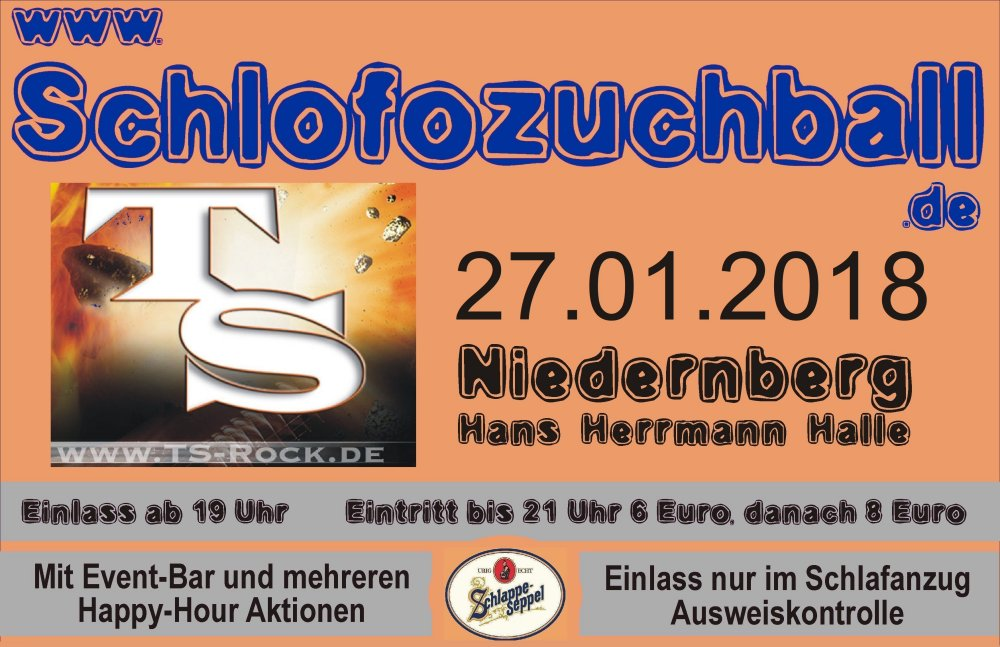
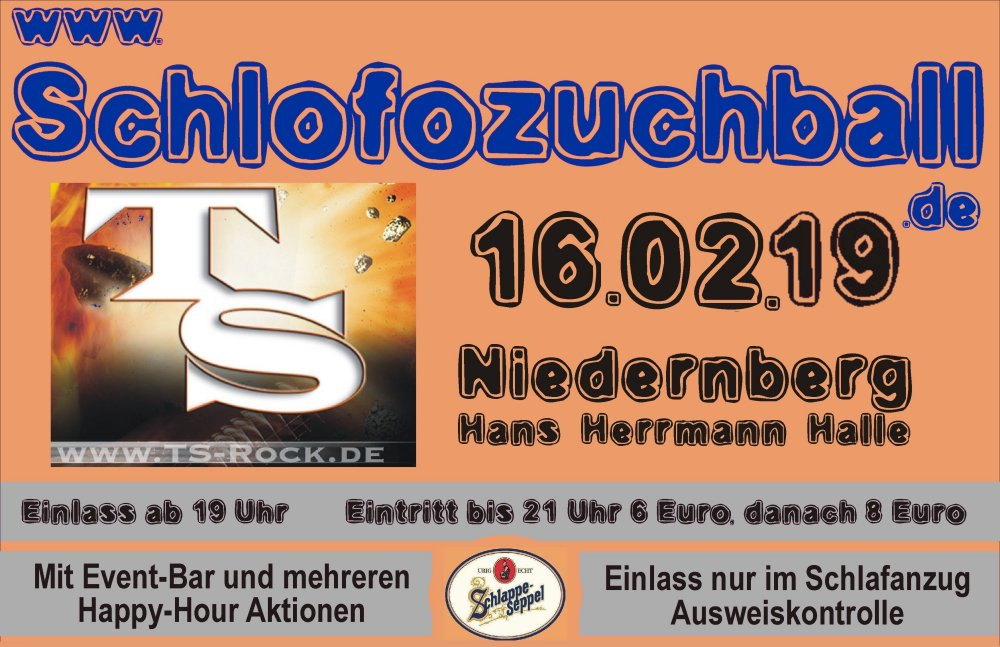
update dates and ad for 2019

Changed region(s): [[0.434, 0.3091, 0.93, 0.4946]]

diff --git a/index.php b/index.php
@@ -35,7 +35,7 @@ Das Mindestalter ist 16 Jahre!
 <span id="termin">
 <h2>Termin 2019</h2><br />
 <table border="0" cellspacing="0" cellpadding="5">
-<tr><td><b>Wann:</b></td><td>Februar 2019, 20:00 Uhr<br /><i>(Einlass ab 19 Uhr)</i></td></tr>
+<tr><td><b>Wann:</b></td><td>Samstag, der 16. Februar 2019, 20:00 Uhr<br /><i>(Einlass ab 19 Uhr)</i></td></tr>
 <tr><td><b>Wo:</b></td><td>Hans Herrmann Halle, Niedernberg (siehe <a href="weg.php">Wegbeschreibung</a>)</td></tr>
 <tr><td><b>Einlass ab:</b></td><td>16 Jahren. Ausweiskontrolle!</td></tr>
 <tr><td><b>Motto:</b></td><td>Jeder kommt im Schlafanzug!</td></tr>
